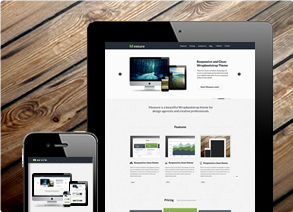
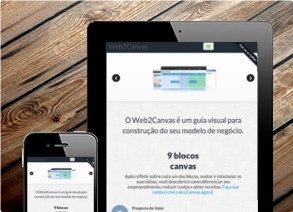
implementado novas imagens da home do web2canvas

Changed region(s): [[0.0922, 0.1981, 0.8908, 1.0], [0.7372, 0.4528, 0.7679, 0.4811]]

diff --git a/views/default/index.html b/views/default/index.html
@@ -13,7 +13,7 @@
                         <div class="active item slide1">
                             <div class="row">
                                 <div class="span6">
-                                    <img src="{{=URL('static','img/slide3.png')}}" alt="slide1" />
+                                    <img src="{{=URL('static','img/slide1.png')}}" alt="slide1" />
                                 </div>
                                 <div class="span4">
                                     <h1>
